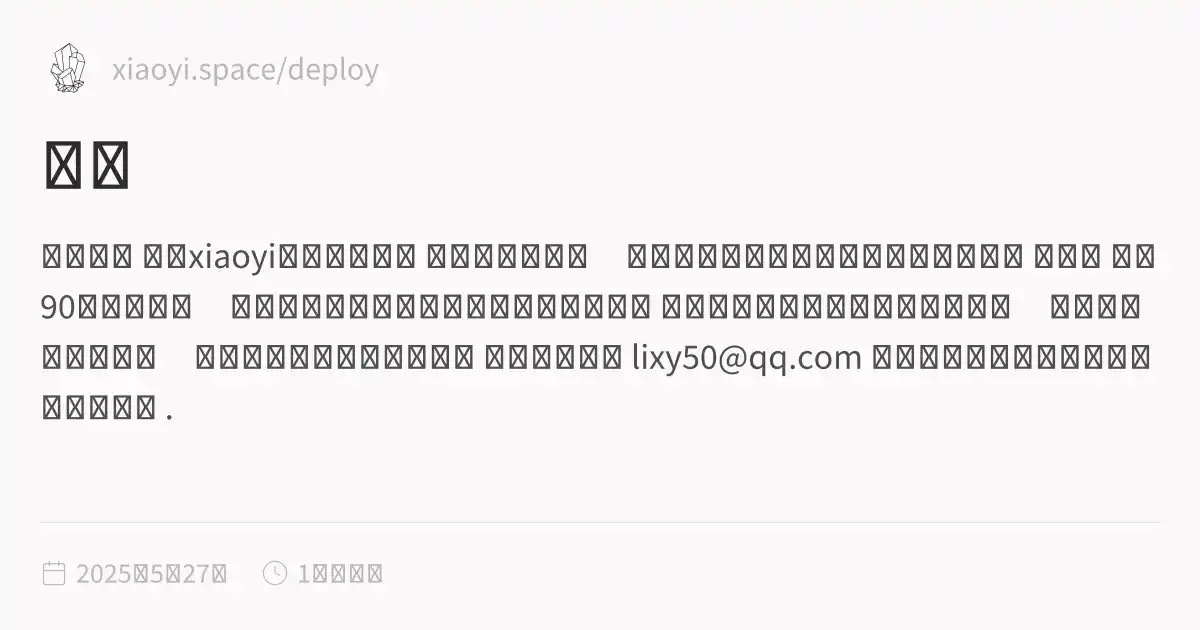
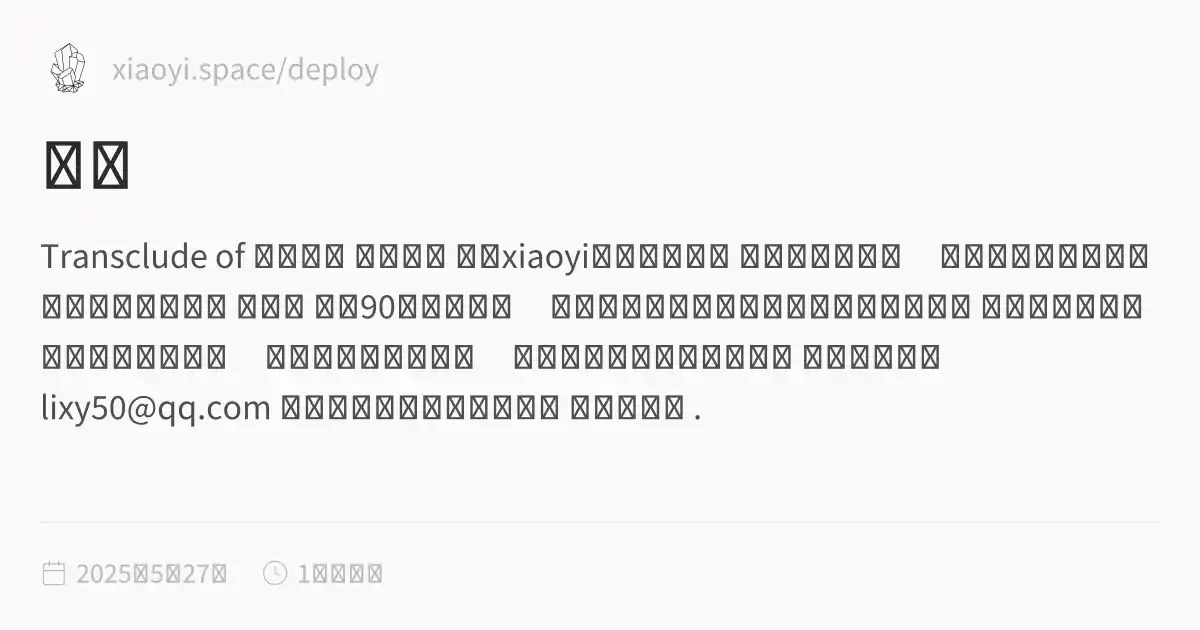
feature:show rencent notes on homepage

Changed region(s): [[0.0308, 0.3619, 0.9867, 0.5127], [0.0308, 0.5429, 0.9558, 0.6937], [0.1233, 0.5429, 0.2158, 0.6032]]

diff --git a/deploy/index.html b/deploy/index.html
@@ -1,5 +1,5 @@
 <!DOCTYPE html>
-<html lang="zh"><head><title>首页</title><meta charset="utf-8"/><link rel="preconnect" href="https://fonts.googleapis.com"/><link rel="preconnect" href="https://fonts.gstatic.com"/><link rel="stylesheet" href="https://fonts.googleapis.com/css2?family=Schibsted Grotesk:wght@400;700&amp;family=Source Sans Pro:ital,wght@0,400;0,600;1,400;1,600&amp;family=IBM Plex Mono:wght@400;600&amp;display=swap"/><link rel="preconnect" href="https://cdnjs.cloudflare.com" crossorigin="anonymous"/><meta name="viewport" content="width=device-width, initial-scale=1.0"/><meta name="og:site_name" content="xiaoyi.space"/><meta property="og:title" content="首页"/><meta property="og:type" content="website"/><meta name="twitter:card" content="summary_large_image"/><meta name="twitter:title" content="首页"/><meta name="twitter:description" content="这是哪儿 这是xiaoyi的个人空间。 记录生活的点滴，分享生活的美好。为什么搭建这个博客 我是谁 一个90后的程序员，爱好猫咪、编程、钢琴、滑雪、摩托车。 这是一个没有多少人关注的小天地，躲藏在互联网的角落，但是期待被有缘的人看到。 我的联系方式 lixy50@qq.com 很期待收到有缘人的来信。 这是我的猫 ."/><meta property="og:description" content="这是哪儿 这是xiaoyi的个人空间。 记录生活的点滴，分享生活的美好。为什么搭建这个博客 我是谁 一个90后的程序员，爱好猫咪、编程、钢琴、滑雪、摩托车。 这是一个没有多少人关注的小天地，躲藏在互联网的角落，但是期待被有缘的人看到。 我的联系方式 lixy50@qq.com 很期待收到有缘人的来信。 这是我的猫 ."/><meta property="og:image:alt" content="这是哪儿 这是xiaoyi的个人空间。 记录生活的点滴，分享生活的美好。为什么搭建这个博客 我是谁 一个90后的程序员，爱好猫咪、编程、钢琴、滑雪、摩托车。 这是一个没有多少人关注的小天地，躲藏在互联网的角落，但是期待被有缘的人看到。 我的联系方式 lixy50@qq.com 很期待收到有缘人的来信。 这是我的猫 ."/><meta property="twitter:domain" content="xiaoyi.space/deploy"/><meta property="og:url" content="https://xiaoyi.space/deploy/index"/><meta property="twitter:url" content="https://xiaoyi.space/deploy/index"/><link rel="icon" href="./static/icon.png"/><meta name="description" content="这是哪儿 这是xiaoyi的个人空间。 记录生活的点滴，分享生活的美好。为什么搭建这个博客 我是谁 一个90后的程序员，爱好猫咪、编程、钢琴、滑雪、摩托车。 这是一个没有多少人关注的小天地，躲藏在互联网的角落，但是期待被有缘的人看到。 我的联系方式 lixy50@qq.com 很期待收到有缘人的来信。 这是我的猫 ."/><meta name="generator" content="Quartz"/><link href="./index.css" rel="stylesheet" type="text/css" spa-preserve/><style>.expand-button {
+<html lang="zh"><head><title>首页</title><meta charset="utf-8"/><link rel="preconnect" href="https://fonts.googleapis.com"/><link rel="preconnect" href="https://fonts.gstatic.com"/><link rel="stylesheet" href="https://fonts.googleapis.com/css2?family=Schibsted Grotesk:wght@400;700&amp;family=Source Sans Pro:ital,wght@0,400;0,600;1,400;1,600&amp;family=IBM Plex Mono:wght@400;600&amp;display=swap"/><link rel="preconnect" href="https://cdnjs.cloudflare.com" crossorigin="anonymous"/><meta name="viewport" content="width=device-width, initial-scale=1.0"/><meta name="og:site_name" content="xiaoyi.space"/><meta property="og:title" content="首页"/><meta property="og:type" content="website"/><meta name="twitter:card" content="summary_large_image"/><meta name="twitter:title" content="首页"/><meta name="twitter:description" content="Transclude of 最近更新 这是哪儿 这是xiaoyi的个人空间。 记录生活的点滴，分享生活的美好。为什么搭建这个博客 我是谁 一个90后的程序员，爱好猫咪、编程、钢琴、滑雪、摩托车。 这是一个没有多少人关注的小天地，躲藏在互联网的角落，但是期待被有缘的人看到。 我的联系方式 lixy50@qq.com 很期待收到有缘人的来信。 这是我的猫 ."/><meta property="og:description" content="Transclude of 最近更新 这是哪儿 这是xiaoyi的个人空间。 记录生活的点滴，分享生活的美好。为什么搭建这个博客 我是谁 一个90后的程序员，爱好猫咪、编程、钢琴、滑雪、摩托车。 这是一个没有多少人关注的小天地，躲藏在互联网的角落，但是期待被有缘的人看到。 我的联系方式 lixy50@qq.com 很期待收到有缘人的来信。 这是我的猫 ."/><meta property="og:image:alt" content="Transclude of 最近更新 这是哪儿 这是xiaoyi的个人空间。 记录生活的点滴，分享生活的美好。为什么搭建这个博客 我是谁 一个90后的程序员，爱好猫咪、编程、钢琴、滑雪、摩托车。 这是一个没有多少人关注的小天地，躲藏在互联网的角落，但是期待被有缘的人看到。 我的联系方式 lixy50@qq.com 很期待收到有缘人的来信。 这是我的猫 ."/><meta property="twitter:domain" content="xiaoyi.space/deploy"/><meta property="og:url" content="https://xiaoyi.space/deploy/index"/><meta property="twitter:url" content="https://xiaoyi.space/deploy/index"/><link rel="icon" href="./static/icon.png"/><meta name="description" content="Transclude of 最近更新 这是哪儿 这是xiaoyi的个人空间。 记录生活的点滴，分享生活的美好。为什么搭建这个博客 我是谁 一个90后的程序员，爱好猫咪、编程、钢琴、滑雪、摩托车。 这是一个没有多少人关注的小天地，躲藏在互联网的角落，但是期待被有缘的人看到。 我的联系方式 lixy50@qq.com 很期待收到有缘人的来信。 这是我的猫 ."/><meta name="generator" content="Quartz"/><link href="./index.css" rel="stylesheet" type="text/css" spa-preserve/><style>.expand-button {
   position: absolute;
   display: flex;
   float: right;
@@ -116,7 +116,15 @@ pre:hover > .expand-button {
   padding: 0 12px;
   font-size: 14px;
 }
[2 lines of base64/hex data omitted]
+<li><strong>[2025-06-12 01:21]</strong> <a href="./最近更新/.././你对现在流行的“女儿是父亲上辈子的情人”怎么看？" class="internal alias" data-slug="你对现在流行的“女儿是父亲上辈子的情人”怎么看？">你对现在流行的“女儿是父亲上辈子的情人”怎么看？</a></li>
+<li><strong>[2025-06-08 10:59]</strong> <a href="./最近更新/.././骑摩托车是不是很不安全" class="internal alias" data-slug="骑摩托车是不是很不安全">骑摩托车是不是很不安全</a></li>
+<li><strong>[2025-06-02 14:30]</strong> <a href="./最近更新/.././一个工作感悟" class="internal alias" data-slug="一个工作感悟">一个工作感悟</a></li>
+<li><strong>[2025-05-31 14:30]</strong> <a href="./最近更新/.././摩托车安全驾驶需要具备的能力有些什么？" class="internal alias" data-slug="摩托车安全驾驶需要具备的能力有些什么？">摩托车安全驾驶需要具备的能力有些什么？</a></li>
+<li><strong>[2025-05-28 11:00]</strong> <a href="./最近更新/.././摩托车旅行记-惠州观音山" class="internal alias" data-slug="摩托车旅行记-惠州观音山">摩托车旅行记-惠州观音山</a></li>
+<li><strong>[2025-05-27 10:00]</strong> <a href="./最近更新/.././为什么搭建这个博客" class="internal alias" data-slug="为什么搭建这个博客">为什么搭建这个博客</a></li>
+</ul><a href="./最近更新" class="internal transclude-src">指向原始笔记的链接</a></blockquote><p></p>
+<h1 id="这是哪儿">这是哪儿<a role="anchor" aria-hidden="true" tabindex="-1" data-no-popover="true" href="#这是哪儿" class="internal"><svg width="18" height="18" viewBox="0 0 24 24" fill="none" stroke="currentColor" stroke-width="2" stroke-linecap="round" stroke-linejoin="round"><path d="M10 13a5 5 0 0 0 7.54.54l3-3a5 5 0 0 0-7.07-7.07l-1.72 1.71"></path><path d="M14 11a5 5 0 0 0-7.54-.54l-3 3a5 5 0 0 0 7.07 7.07l1.71-1.71"></path></svg></a></h1>
 <p>这是xiaoyi的个人空间。
 记录生活的点滴，分享生活的美好。<a href="./为什么搭建这个博客" class="internal alias" data-slug="为什么搭建这个博客">为什么搭建这个博客</a></p>
 <h1 id="我是谁">我是谁<a role="anchor" aria-hidden="true" tabindex="-1" data-no-popover="true" href="#我是谁" class="internal"><svg width="18" height="18" viewBox="0 0 24 24" fill="none" stroke="currentColor" stroke-width="2" stroke-linecap="round" stroke-linejoin="round"><path d="M10 13a5 5 0 0 0 7.54.54l3-3a5 5 0 0 0-7.07-7.07l-1.72 1.71"></path><path d="M14 11a5 5 0 0 0-7.54-.54l-3 3a5 5 0 0 0 7.07 7.07l1.71-1.71"></path></svg></a></h1>

diff --git a/deploy/最近更新.html b/deploy/最近更新.html
@@ -116,7 +116,7 @@ pre:hover > .expand-button {
   padding: 0 12px;
   font-size: 14px;
 }
[2 lines of base64/hex data omitted]
 <li><strong>[2025-06-12 01:21]</strong> <a href="./你对现在流行的“女儿是父亲上辈子的情人”怎么看？" class="internal alias" data-slug="你对现在流行的“女儿是父亲上辈子的情人”怎么看？">你对现在流行的“女儿是父亲上辈子的情人”怎么看？</a></li>
 <li><strong>[2025-06-08 10:59]</strong> <a href="./骑摩托车是不是很不安全" class="internal alias" data-slug="骑摩托车是不是很不安全">骑摩托车是不是很不安全</a></li>
 <li><strong>[2025-06-02 14:30]</strong> <a href="./一个工作感悟" class="internal alias" data-slug="一个工作感悟">一个工作感悟</a></li>
@@ -133,6 +133,6 @@ pre:hover > .expand-button {
                 C46.042,11.405,47.451,12,49,12c3.309,0,6-2.691,6-6S52.309,0,49,0z M11,9c0-1.103,0.897-2,2-2s2,0.897,2,2s-0.897,2-2,2
                 S11,10.103,11,9z M6,51c-2.206,0-4-1.794-4-4s1.794-4,4-4s4,1.794,4,4S8.206,51,6,51z M33,49c0,2.206-1.794,4-4,4s-4-1.794-4-4
                 s1.794-4,4-4S33,46.794,33,49z M29,31c-3.309,0-6-2.691-6-6s2.691-6,6-6s6,2.691,6,6S32.309,31,29,31z M47,41c0,1.103-0.897,2-2,2
-                s-2-0.897-2-2s0.897-2,2-2S47,39.897,47,41z M49,10c-2.206,0-4-1.794-4-4s1.794-4,4-4s4,1.794,4,4S51.206,10,49,10z"></path></svg></button></div><div class="global-graph-outer"><div class="global-graph-container" data-cfg="{&quot;drag&quot;:true,&quot;zoom&quot;:true,&quot;depth&quot;:-1,&quot;scale&quot;:0.9,&quot;repelForce&quot;:0.5,&quot;centerForce&quot;:0.2,&quot;linkDistance&quot;:30,&quot;fontSize&quot;:0.6,&quot;opacityScale&quot;:1,&quot;showTags&quot;:true,&quot;removeTags&quot;:[],&quot;focusOnHover&quot;:true,&quot;enableRadial&quot;:true}"></div></div></div></div><footer class><p>Created with <a href="https://quartz.jzhao.xyz/">Quartz v4.5.1</a> © 2025</p><ul></ul></footer></div></div></body><script type="application/javascript">function n(){let t=this.parentElement;t.classList.toggle("is-collapsed");let e=t.getElementsByClassName("callout-content")[0];if(!e)return;let l=t.classList.contains("is-collapsed");e.style.gridTemplateRows=l?"0fr":"1fr"}function c(){let t=document.getElementsByClassName("callout is-collapsible");for(let e of t){let l=e.getElementsByClassName("callout-title")[0],s=e.getElementsByClassName("callout-content")[0];if(!l||!s)continue;l.addEventListener("click",n),window.addCleanup(()=>l.removeEventListener("click",n));let o=e.classList.contains("is-collapsed");s.style.gridTemplateRows=o?"0fr":"1fr"}}document.addEventListener("nav",c);
+                s-2-0.897-2-2s0.897-2,2-2S47,39.897,47,41z M49,10c-2.206,0-4-1.794-4-4s1.794-4,4-4s4,1.794,4,4S51.206,10,49,10z"></path></svg></button></div><div class="global-graph-outer"><div class="global-graph-container" data-cfg="{&quot;drag&quot;:true,&quot;zoom&quot;:true,&quot;depth&quot;:-1,&quot;scale&quot;:0.9,&quot;repelForce&quot;:0.5,&quot;centerForce&quot;:0.2,&quot;linkDistance&quot;:30,&quot;fontSize&quot;:0.6,&quot;opacityScale&quot;:1,&quot;showTags&quot;:true,&quot;removeTags&quot;:[],&quot;focusOnHover&quot;:true,&quot;enableRadial&quot;:true}"></div></div></div><div class="backlinks"><h3>反向链接</h3><ul id="list-2" class="overflow"><li><a href="./" class="internal">首页</a></li><li class="overflow-end"></li></ul></div></div><footer class><p>Created with <a href="https://quartz.jzhao.xyz/">Quartz v4.5.1</a> © 2025</p><ul></ul></footer></div></div></body><script type="application/javascript">function n(){let t=this.parentElement;t.classList.toggle("is-collapsed");let e=t.getElementsByClassName("callout-content")[0];if(!e)return;let l=t.classList.contains("is-collapsed");e.style.gridTemplateRows=l?"0fr":"1fr"}function c(){let t=document.getElementsByClassName("callout is-collapsible");for(let e of t){let l=e.getElementsByClassName("callout-title")[0],s=e.getElementsByClassName("callout-content")[0];if(!l||!s)continue;l.addEventListener("click",n),window.addCleanup(()=>l.removeEventListener("click",n));let o=e.classList.contains("is-collapsed");s.style.gridTemplateRows=o?"0fr":"1fr"}}document.addEventListener("nav",c);
 </script><script type="module">function f(i,e){if(!i)return;function r(o){o.target===this&&(o.preventDefault(),o.stopPropagation(),e())}function t(o){o.key.startsWith("Esc")&&(o.preventDefault(),e())}i?.addEventListener("click",r),window.addCleanup(()=>i?.removeEventListener("click",r)),document.addEventListener("keydown",t),window.addCleanup(()=>document.removeEventListener("keydown",t))}function y(i){for(;i.firstChild;)i.removeChild(i.firstChild)}var h=class{constructor(e,r){this.container=e;this.content=r;this.setupEventListeners(),this.setupNavigationControls(),this.resetTransform()}isDragging=!1;startPan={x:0,y:0};currentPan={x:0,y:0};scale=1;MIN_SCALE=.5;MAX_SCALE=3;cleanups=[];setupEventListeners(){let e=this.onMouseDown.bind(this),r=this.onMouseMove.bind(this),t=this.onMouseUp.bind(this),o=this.resetTransform.bind(this);this.container.addEventListener("mousedown",e),document.addEventListener("mousemove",r),document.addEventListener("mouseup",t),window.addEventListener("resize",o),this.cleanups.push(()=>this.container.removeEventListener("mousedown",e),()=>document.removeEventListener("mousemove",r),()=>document.removeEventListener("mouseup",t),()=>window.removeEventListener("resize",o))}cleanup(){for(let e of this.cleanups)e()}setupNavigationControls(){let e=document.createElement("div");e.className="mermaid-controls";let r=this.createButton("+",()=>this.zoom(.1)),t=this.createButton("-",()=>this.zoom(-.1)),o=this.createButton("Reset",()=>this.resetTransform());e.appendChild(t),e.appendChild(o),e.appendChild(r),this.container.appendChild(e)}createButton(e,r){let t=document.createElement("button");return t.textContent=e,t.className="mermaid-control-button",t.addEventListener("click",r),window.addCleanup(()=>t.removeEventListener("click",r)),t}onMouseDown(e){e.button===0&&(this.isDragging=!0,this.startPan={x:e.clientX-this.currentPan.x,y:e.clientY-this.currentPan.y},this.container.style.cursor="grabbing")}onMouseMove(e){this.isDragging&&(e.preventDefault(),this.currentPan={x:e.clientX-this.startPan.x,y:e.clientY-this.startPan.y},this.updateTransform())}onMouseUp(){this.isDragging=!1,this.container.style.cursor="grab"}zoom(e){let r=Math.min(Math.max(this.scale+e,this.MIN_SCALE),this.MAX_SCALE),t=this.content.getBoundingClientRect(),o=t.width/2,n=t.height/2,c=r-this.scale;this.currentPan.x-=o*c,this.currentPan.y-=n*c,this.scale=r,this.updateTransform()}updateTransform(){this.content.style.transform=`translate(${this.currentPan.x}px, ${this.currentPan.y}px) scale(${this.scale})`}resetTransform(){this.scale=1;let e=this.content.querySelector("svg");this.currentPan={x:e.getBoundingClientRect().width/2,y:e.getBoundingClientRect().height/2},this.updateTransform()}},C=["--secondary","--tertiary","--gray","--light","--lightgray","--highlight","--dark","--darkgray","--codeFont"],E;document.addEventListener("nav",async()=>{let e=document.querySelector(".center").querySelectorAll("code.mermaid");if(e.length===0)return;E||=await import("https://cdnjs.cloudflare.com/ajax/libs/mermaid/11.4.0/mermaid.esm.min.mjs");let r=E.default,t=new WeakMap;for(let n of e)t.set(n,n.innerText);async function o(){for(let s of e){s.removeAttribute("data-processed");let a=t.get(s);a&&(s.innerHTML=a)}let n=C.reduce((s,a)=>(s[a]=window.getComputedStyle(document.documentElement).getPropertyValue(a),s),{}),c=document.documentElement.getAttribute("saved-theme")==="dark";r.initialize({startOnLoad:!1,securityLevel:"loose",theme:c?"dark":"base",themeVariables:{fontFamily:n["--codeFont"],primaryColor:n["--light"],primaryTextColor:n["--darkgray"],primaryBorderColor:n["--tertiary"],lineColor:n["--darkgray"],secondaryColor:n["--secondary"],tertiaryColor:n["--tertiary"],clusterBkg:n["--light"],edgeLabelBackground:n["--highlight"]}}),await r.run({nodes:e})}await o(),document.addEventListener("themechange",o),window.addCleanup(()=>document.removeEventListener("themechange",o));for(let n=0;n<e.length;n++){let v=function(){let g=l.querySelector("#mermaid-space"),m=l.querySelector(".mermaid-content");if(!m)return;y(m);let w=c.querySelector("svg").cloneNode(!0);m.appendChild(w),l.classList.add("active"),g.style.cursor="grab",u=new h(g,m)},M=function(){l.classList.remove("active"),u?.cleanup(),u=null},c=e[n],s=c.parentElement,a=s.querySelector(".clipboard-button"),d=s.querySelector(".expand-button"),p=window.getComputedStyle(a),L=a.offsetWidth+parseFloat(p.marginLeft||"0")+parseFloat(p.marginRight||"0");d.style.right=`calc(${L}px + 0.3rem)`,s.prepend(d);let l=s.querySelector("#mermaid-container");if(!l)return;let u=null;d.addEventListener("click",v),f(l,M),window.addCleanup(()=>{u?.cleanup(),d.removeEventListener("click",v)})}});
 </script><script src="https://cdn.jsdelivr.net/npm/katex@0.16.11/dist/contrib/copy-tex.min.js" type="application/javascript"></script><script src="./postscript.js" type="module"></script></html>
